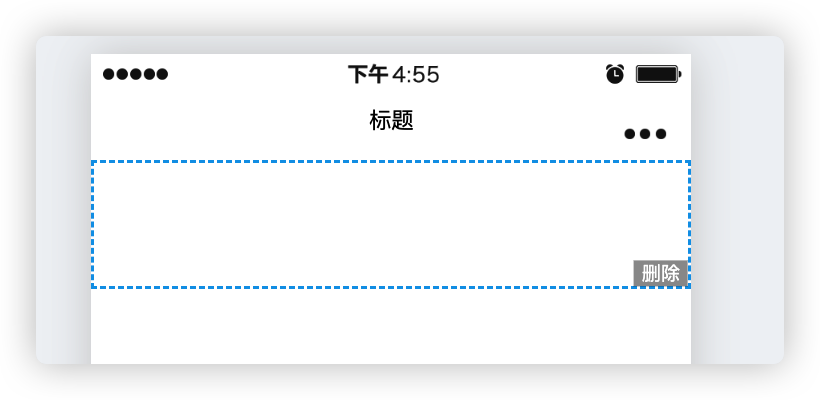
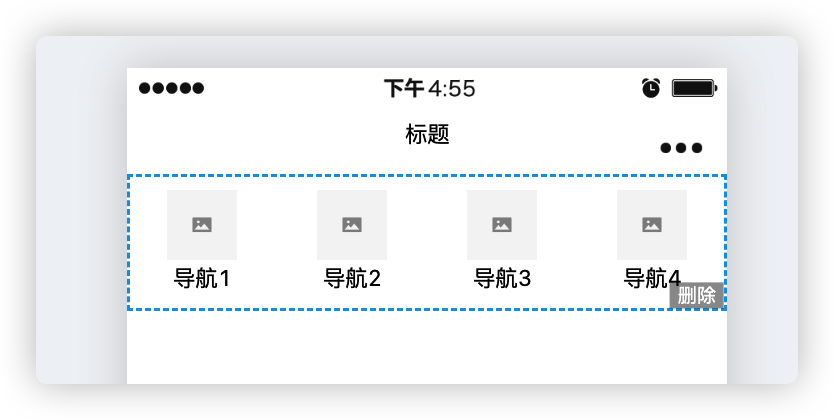
📝：文档更新 🐛：问题修复

diff --git a/src/components/homeTemplate/module/editor/navigation/navigation.vue b/src/components/homeTemplate/module/editor/navigation/navigation.vue
@@ -47,7 +47,7 @@ const closeModal = () => {
 </script>
 <template>
   <div class="navigation-edtior">
-    <tabCard c-title="" s-title="" bgColor="transparent" padding="0">
+    <tabCard>
       <template #content>
         <draggable
           v-model="data.value"
@@ -117,7 +117,6 @@ const closeModal = () => {
       </template>
       <template #style>
         <div class="style">
-          <p class="style-title">样式设置</p>
           <div class="editor-cell">
             <span class="label">每行数量</span>
             <a-radio-group v-model:value="options.colNum" button-style="solid">

diff --git a/src/components/homeTemplate/module/content/navigation/navigation.vue b/src/components/homeTemplate/module/content/navigation/navigation.vue
@@ -22,7 +22,7 @@ const templateStore = useTemplate();
       v-for="item in data.value"
       :key="item.id"
     >
-      <a-image class="img" :src="item.src" :fallback="errImg" />
+      <a-image class="img" :src="item.icon" :fallback="errImg" />
       <p :style="{ margin: 0 }">{{ item.text }}</p>
     </div>
   </div>

diff --git a/README.md b/README.md
@@ -50,13 +50,13 @@ $ pnpm run dev
 
 ✅ 模块增删改查
 
-✅ 搜索模块
+✅ [搜索模块](./src/components/homeTemplate/module/editor/search/README.md)
 
 + ✅ 修改搜索框 `placeholder`
 + ✅ 修改输入框圆角样式
 + ✅ 修改文字对齐方式
 
-✅ 轮播图模块
+✅ [轮播图模块](./src/components/homeTemplate/module/editor/swiper/README.md)
 
 + ✅ 每张添加标题，自动显示隐藏，有输入标题就显示，没输入标题就隐藏
 
@@ -73,6 +73,7 @@ $ pnpm run dev
 + ✅ 自定义指示器激活颜色
 + ✅ 自定义指示器位置，暂支持 `left`、`right` 和 `center` 三个位置
 + ✅ 选择每张轮播图跳转链接（[链接选择组件](/src/components/SelectLinkModel/README.md)）
++ ✅ 支持拖拽排序
 
 ☑ 图片热区
 
@@ -84,7 +85,7 @@ $ pnpm run dev
 
 ☑ 视频
 
-✅ 头条
+✅ [头条](./src/components/homeTemplate/module/editor/news/README.md)
 
 + ✅ 支持添加跳转链接
 + ✅ 自定义文字颜色、文字大小
@@ -93,7 +94,7 @@ $ pnpm run dev
 + ✅ 支持自定义头条来源
 + ✅ 自定义头条个数
 
-✅ 导航
+✅ [导航](./src/components/homeTemplate/module/editor/navigation/README.md)
 
 + ✅ 支持添加跳转链接
 + ✅ 支持设置每行个数，支持：`3 / 4 / 5`
@@ -101,15 +102,16 @@ $ pnpm run dev
 + ✅ 自定义背景颜色
 + ✅ 自定义文字颜色
 + ✅ 自定义上下边距
++ ✅ 支持拖拽排序
 
-✅ 公告
+✅ [公告](./src/components/homeTemplate/module/editor/bulletin/README.md)
 
 + ✅ 支持添加跳转链接
 + ✅ 自定义文字颜色、文字大小
 + ✅ 自定义背景颜色
 + ✅ 自定义上下边距
 
-✅ 客服
+✅ [客服](./src/components/homeTemplate/module/editor/customerService/README.md)
 
 + ✅ 支持 `在线客服` 和 `拨打电话` 两种模式
 + ✅ 自定义客服图标
@@ -125,12 +127,12 @@ $ pnpm run dev
 
 ☑ 拼团商品
 
-✅ 空白填充
+✅ [空白填充](./src/components/homeTemplate/module/editor/blanks/README.md)
 
 + ✅ 自定义高度
 + ✅ 自定义颜色
 
-✅ 辅助线
+✅ [辅助线](./src/components/homeTemplate/module/editor/polyline/README.md)
 
 + ✅ 自定义线条样式，暂支持 `solid（实线）`、`dashed（虚线）` 和 `dotted（点状）`
 + ✅ 自定义线条高度
@@ -138,7 +140,7 @@ $ pnpm run dev
 + ✅ 自定义线条颜色
 + ✅ 自定义上下边距背景色
 
-✅ 备案号
+✅ [备案号](./src/components/homeTemplate/module/editor/fileNumber/README.md)
 
 + ✅ 自定义文字大小
 + ✅ 自定义对齐方式
@@ -147,7 +149,7 @@ $ pnpm run dev
 + ✅ 自定义容器左右边距
 + ✅ 自定义容器背景颜色
 
-✅ 微信公众号
+✅ [微信公众号](./src/components/homeTemplate/module/editor/wexinOfficial/README.md)
 
 
 ## 提交类型

diff --git a/src/components/homeTemplate/module/editor/navigation/README.md b/src/components/homeTemplate/module/editor/navigation/README.md
@@ -1,1 +1,10 @@
 ## 导航组件
+
+### 组件
+![组件](./images/content.png)
+
+### 内容编辑
+![内容编辑](./images/editor-content.png)
+
+### 样式编辑
+![样式编辑](./images/editor-style.png)

diff --git a/src/components/homeTemplate/module/editor/wexinOfficial/README.md b/src/components/homeTemplate/module/editor/wexinOfficial/README.md
@@ -1,0 +1,7 @@
+## 公众组件
+
+### 组件
+![组件](./images/content.png)
+
+### 提示
+![提示](./images/tips.png)

diff --git a/src/components/homeTemplate/module/editor/swiper/README.md b/src/components/homeTemplate/module/editor/swiper/README.md
@@ -1,4 +1,4 @@
-## 搜索组件
+## 轮播图组件
 
 ### 组件
 ![组件](./images/content.png)
